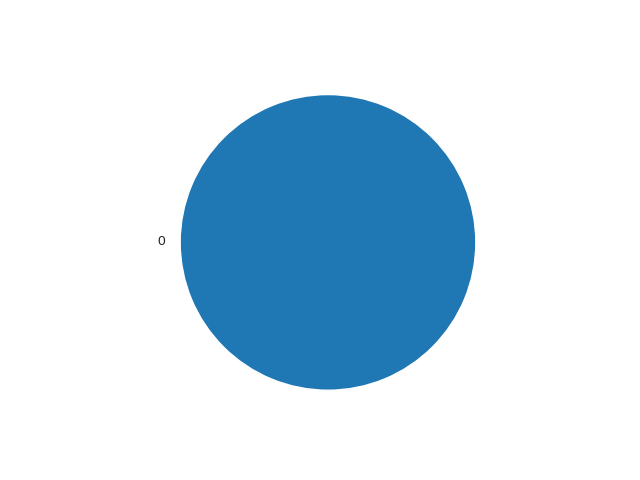
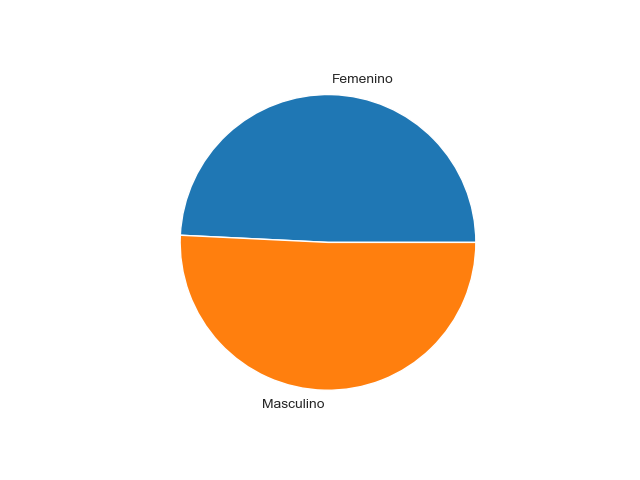
Cambios_varios

Changed region(s): [[0.2812, 0.4688, 0.75, 0.875], [0.5312, 0.1562, 0.625, 0.1875]]

diff --git a/Template/style.css b/Template/style.css
@@ -45,7 +45,7 @@ img {
 
 .column {
   flex: 33.33%;
-  padding: 5px;
+  padding: 6px;
 }
 
 

diff --git a/DescriptiveAndPlots.py b/DescriptiveAndPlots.py
@@ -1,35 +1,23 @@
 import matplotlib.pyplot as plot
 import seaborn as sns
 import numpy as np
-from StructureInformation import get_information
+from StructureInformation import inputInformation
 
+Data_covid, Infectados_history, Recuperados_history, Muertes_history, Sintomas_history = inputInformation(url="www.datos.gov.co")
 def barplotciudades(Data_covid, pathsave,title):
     ciudadesinfectados = Data_covid.groupby("ciudad_de_ubicaci_n").count()["id_de_caso"].sort_values(
         ascending=False).head(10)
     ciudadesinfectados = ciudadesinfectados.reset_index()
     ciudadesinfectados.columns = ["Ciudad", "Cantidad de infectados"]
-    plot.figure()
-    sns.set_style("darkgrid")
-    bar_plot = sns.barplot(x=ciudadesinfectados["Ciudad"], y=ciudadesinfectados["Cantidad de infectados"],
-                           palette="muted" ).set_title(title)
-
-
-    bar_plot.get_figure().savefig( pathsave+  '.png')
+    ciudadesinfectados = ciudadesinfectados.sort_values(by=['Cantidad de infectados'], ascending=True)
+    plot.figure(figsize=(14,10.5))
+    bar=plot.barh(ciudadesinfectados["Ciudad"], ciudadesinfectados["Cantidad de infectados"])
+    plot.title(title)
+    bar[0].get_figure().savefig(pathsave+'.png')
     plot.figure()
     print("grafico ciudades guardado")
 
 def pieplotsexo(Data_covid,pathsave,name):
-    conditions = [
-        (Data_covid['sexo'] == "F"),
-        (Data_covid['sexo'] == "f"),
-        (Data_covid['sexo'] == "M"),
-        (Data_covid['sexo'] == "m"),
-    ]
-
-    values = ['Femenino', 'Femenino', 'Masculino', 'Masculino']
-
-    Data_covid['sexo'] = np.select(conditions, values)
-
     sexo = Data_covid.groupby("sexo").count()["id_de_caso"].reset_index()
 
 
@@ -135,7 +123,6 @@ def grafica_series_muerte(Muertes_history,pronostico,ciudad,ciudad_name,tipo_pro
     g.get_figure().savefig("fig/Pronosticos/"+ciudad_name+"/"+tipo_pronostico + '.png')
     plot.figure()
     print("grafico guardado")
-
 
 def grafica_series_infectados(Infectados_history,pronostico,ciudad,ciudad_name,tipo_pronostico):
     serie_completa = Infectados_history[Infectados_history["ciudad_de_ubicaci_n"] == ciudad]

diff --git a/ModelRecuperados.py b/ModelRecuperados.py
@@ -210,37 +210,3 @@ def GeneracionPronsoticos_Recuperados(Infectados_history,Recuperados_history):
     return PronosticosBog,Pronosticosmed,Pronosticoscali,PronosticosBarra,PronosticosCarta
 
 
-###### PRUEBAS ######
-
-#from StructureInformation import inputInformation
-""" 
-Data_covid,Infectados_history, Recuperados_history,Muertes_history,Sintomas_history = inputInformation(url="www.datos.gov.co")
-
-PronosticosBog = PronosticosRecuperados(Infectados_history=Infectados_history,
-                                        Recuperados_history=Recuperados_history,
-                                        ciudad='Bogotá D.C.',
-                                        numberLag=25,
-                                        predicciones=10)
-
-HYISTORICOBOG = Recuperados_history[Recuperados_history["ciudad_de_ubicaci_n"] == "Bogotá D.C."]
-HYISTORICOBOG = HYISTORICOBOG[["fecha_recuperado","id_de_caso"]]
-
-#Grafica
-
-def grafica_series(Recuperados_history,pronostico,ciudad,ciudad_name,tipo_pronostico):
-    serie_completa = Recuperados_history[Recuperados_history["ciudad_de_ubicaci_n"] == ciudad]
-    serie_completa = serie_completa[["fecha_recuperado", "id_de_caso"]]
-    plt.figure()
-    plt.figure(figsize=(16,8))
-    plt.plot(serie_completa["fecha_recuperado"],serie_completa["id_de_caso"],color="lightseagreen",label="Serie Real",linewidth=2.5)
-    plt.plot(pronostico["Fecha"],pronostico["Pronostico"],color="salmon",label="Pronóstico",linewidth=2.5)
-    plt.legend(loc="best")
-    g=plt.axvline(x=pronostico["Fecha"][0],color='dimgray',linewidth = 1, linestyle = "dashed")
-    plt.show()
-    g.get_figure().savefig("fig/Pronosticos/"+ciudad_name+"/"+tipo_pronostico + '.png')
-    plt.figure()
-    print("grafico guardado")
-
-grafica_series(serie_completa=Recuperados_history,pronostico=PronosticosBog)
-"""
-

diff --git a/StructureInformation.py b/StructureInformation.py
@@ -91,6 +91,17 @@ def structuredata_Sintomas(Data_covid1):
 def inputInformation(url):
     print("Estamos obteniendo la informacion")
     Data_covid = get_information(url=url, limit=40000000)
+    conditions = [
+        (Data_covid['sexo'] == "F"),
+        (Data_covid['sexo'] == "f"),
+        (Data_covid['sexo'] == "M"),
+        (Data_covid['sexo'] == "m"),
+    ]
+
+    values = ['Femenino', 'Femenino', 'Masculino', 'Masculino']
+
+    Data_covid['sexo'] = np.select(conditions, values)
+
     Data_covid1 = filter_city_categorical_values(dataframe=Data_covid,
                                                 filterCity=['Bogotá D.C.',
                                                             'Medellín',
